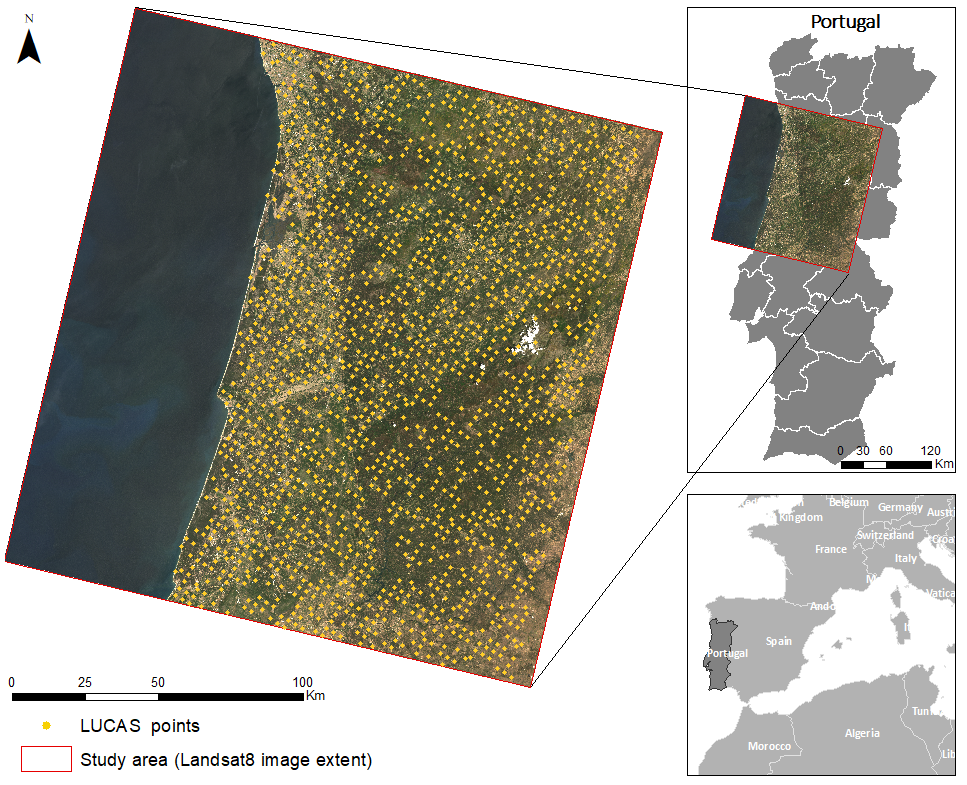
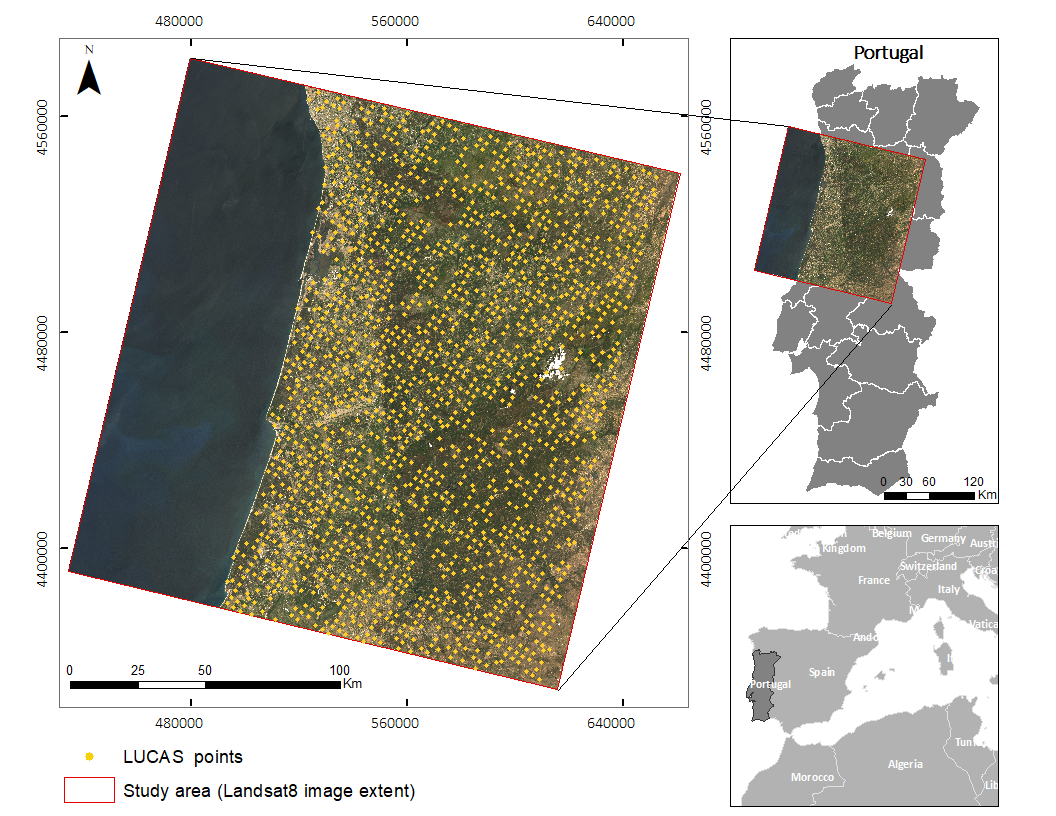
Adopted Latex file according the last call

diff --git a/remote-sensing-lucas/content/remote_sensing_lucas.tex b/remote-sensing-lucas/content/remote_sensing_lucas.tex
@@ -49,7 +49,8 @@ as a tool for addressing the imbalanced learning problem in remote sensing.
 Geometric-SMOTE is a sophisticated oversampling algorithm which increases the
 quality of the generated instances over previous methods, such as Synthetic
 Minority Oversampling TEchnique. The performance of Geometric-SMOTE, in the
-LUCAS dataset, is compared to other oversamplers using a variety of classifiers.
+LUCAS (Land Use/Cover Area frame Survey) dataset, is compared to other 
+oversamplers using a variety of classifiers.
 The results show that Geometric-SMOTE significantly outperforms all the other
 oversamplers and improves the robustness of the classifiers. These results
 indicate that, when using imbalanced datasets, remote sensing researchers should
@@ -66,47 +67,25 @@ The production of accurate Land Use/Land Cover (LULC) maps offers unique
 monitoring capabilities within the remote sensing domain \cite{Mellor2015}. LULC
 maps are being used for a variety of applications, ranging from environmental
 monitoring, land change detection, natural hazard assessment up to agriculture
-and water/wetland monitoring \cite{Khatami2016}.
+and water/wetland monitoring \cite{Khatami2016}, therefore, accurate and timely 
+production of LULC maps is of great significance. LULC maps are usually 
+produced by two main procedures: photo-interpretation by human eye, which is 
+time and resource consuming and is not suitable for operational LULC-mapping 
+over large areas, and second, automatic mapping using remotely sensed data and 
+different classification algorithms. 
 
-Multispectral images are an important resource to build LULC maps, allowing for
-the use of classification algorithms, both supervised and unsupervised, to
-automate the production of these maps. Although significant progress has been
-made in the use of supervised learning techniques for automatic image
-classification \cite{Tewkesbury2015}, the acquisition of labeled training sets
-continues to be a bottleneck \cite{Rajan2008}. In order to build accurate and
-robust supervised classifiers it is crucial to have a large enough training
-dataset. Often, the problem is that different land cover types have very
-different levels of area coverage, which causes some of them to be frequent in
-the training dataset, while others are limited \cite{Feng2019}.
-
-% changed to this:
-The production of accurate Land Use/Land Cover (LULC) maps offers unique 
-monitoring
-capabilities within the remote sensing domain [1]. LULC maps are being used for 
-a variety of applications, ranging from environmental monitoring, land change 
-detection, natural hazard assessment up to agriculture and water/wetland 
-monitoring [2], therefore, accurate and timely production of LULC maps is of 
-great significance. LULC maps are usually produced by two main procedures: 
-photo-interpretation by human eye, which is time and resource consuming and is 
-not suitable for operational LULC-mapping over large areas, and second, 
-automatic mapping using remotely sensed data and different classification 
-algorithms. 
 The availability and quick update of high quality satellite remote sensing data 
 has brought tremendous progress in providing up-to-date and accurate land cover 
-information.
-
-Particularly, multispectral remote sensing images are an important resource to 
+information. Particularly, multispectral images are an important resource to 
 build LULC maps, allowing for the use of classification algorithms, both 
 supervised and unsupervised, to automate the production of these maps. Although 
 significant progress has been made in the use of supervised learning techniques 
-for automatic image classification [3], the acquisition of labeled training 
-sets continues to be a bottleneck [4]. In order to build accurate and robust 
-supervised classifiers it is crucial to have a large enough training dataset. 
-Often, the problem is that different land cover types have very different 
-levels of area coverage, which causes some of them to be frequent in the 
-training dataset, while others are limited
-
-
+for automatic image classification \cite{Tewkesbury2015}, the acquisition of 
+labeled training sets continues to be a bottleneck \cite{Rajan2008}. In order 
+to build accurate and robust supervised classifiers it is crucial to have a 
+large enough training dataset. Often, the problem is that different land cover 
+types have very different levels of area coverage, which causes some of them to 
+be frequent in the training dataset, while others are limited \cite{Feng2019}.
 
 A particular case where this phenomenon happens is the LUCAS dataset: Land Use
 and Coverage Area frame Survey coordinated by The Statistical Office of the
@@ -318,8 +297,9 @@ land, water and wetlands.
 \begin{figure}[H]
 	\centering
 	\includegraphics[width=1\linewidth]{../analysis/study_area}
-	\caption{Study area and LUCAS reference data (Landsat 8 image from the date
-		of 2015/05/25)}
+	\caption{Study area and LUCAS reference data (coordinate system: 
+			WGS-84 UTM Zone 29, projection: Transverse-Mercator, Landsat image 
+			date: 2015/05/25).}
 	\label{fig:studyarea}
 \end{figure}
 
@@ -370,19 +350,28 @@ any of the minority classes, is presented in Table
 	\begin{tabular}{llrrrr}
 		\toprule
 		\textbf{LUCAS Category} & \textbf{Land cover type} & \textbf{Instances}
-		                        & \textbf{IR}                                            \\
+		                        &\textbf{IR} \\
 		\hline
-		A                       & Artificial land          & 131                & 5.81   \\
-		B                       & Cropland                 & 270                & 2.81   \\
-		C                       & Woodland                 & 761                & 1.00   \\
-		D                       & Shrubland                & 296                & 2.61   \\
-		E                       & Grassland                & 185                & 4.11   \\
-		F                       & Bareland                 & 37                 & 20.56  \\
-		G                       & Water                    & 10                 & 76.10  \\
-		H                       & Wetlands                 & 4                  & 190.25 \\
+		A                       & Artificial land          & 131                
+		& 5.81   \\
+		B                       & Cropland                 & 270                
+		& 2.81   \\
+		C                       & Woodland                 & 761                
+		& 1.00   \\
+		D                       & Shrubland                & 296                
+		& 2.61   \\
+		E                       & Grassland                & 185                
+		& 4.11   \\
+		F                       & Bareland                 & 37                 
+		& 20.56  \\
+		G                       & Water                    & 10                 
+		& 76.10  \\
+		H                       & Wetlands                 & 4                  
+		& 190.25 \\
 		\bottomrule
 	\end{tabular}
-	\caption{\label{tab:classes_distribution}LUCAS nomenclature and classes distribution.}
+	\caption{\label{tab:classes_distribution}LUCAS nomenclature and classes 
+	distribution.}
 \end{table}
 
 Table \ref{tab:LUCAS} presents a description of the LUCAS dataset, including
